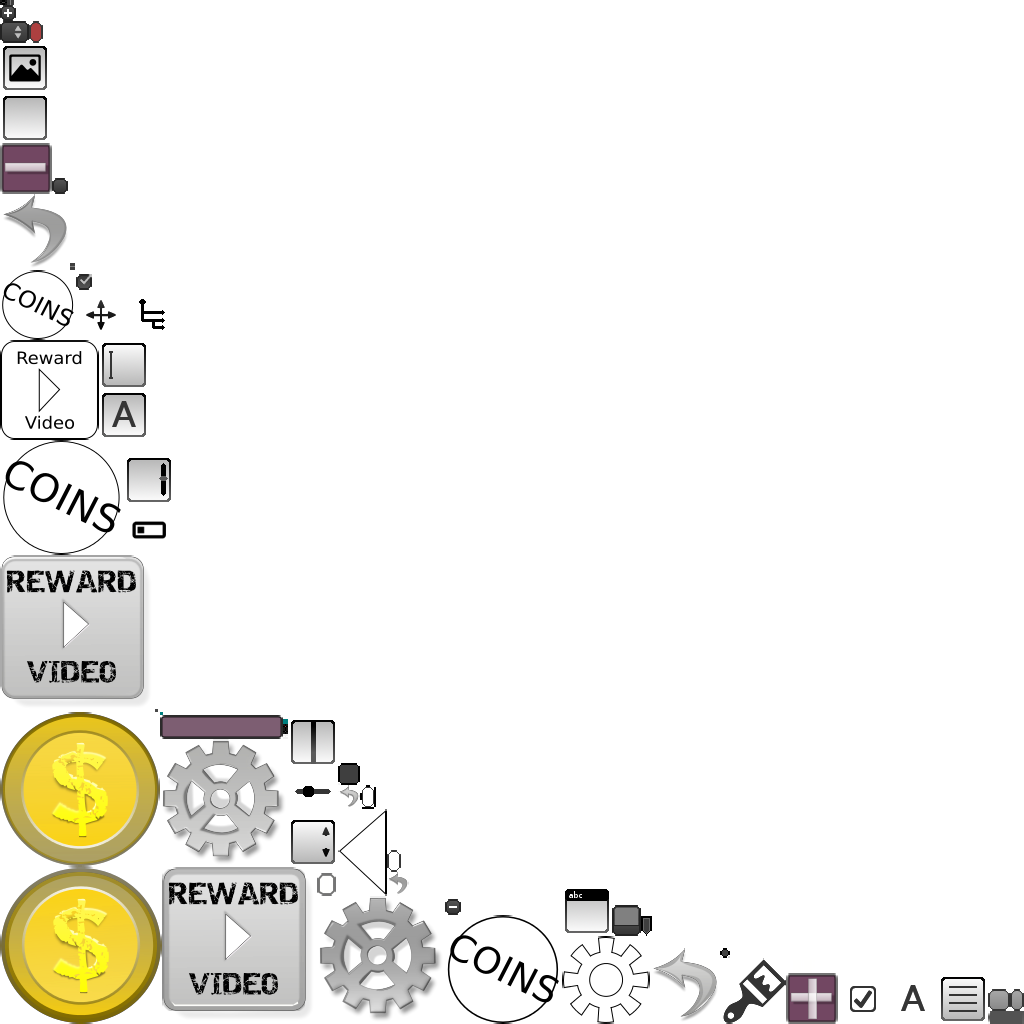
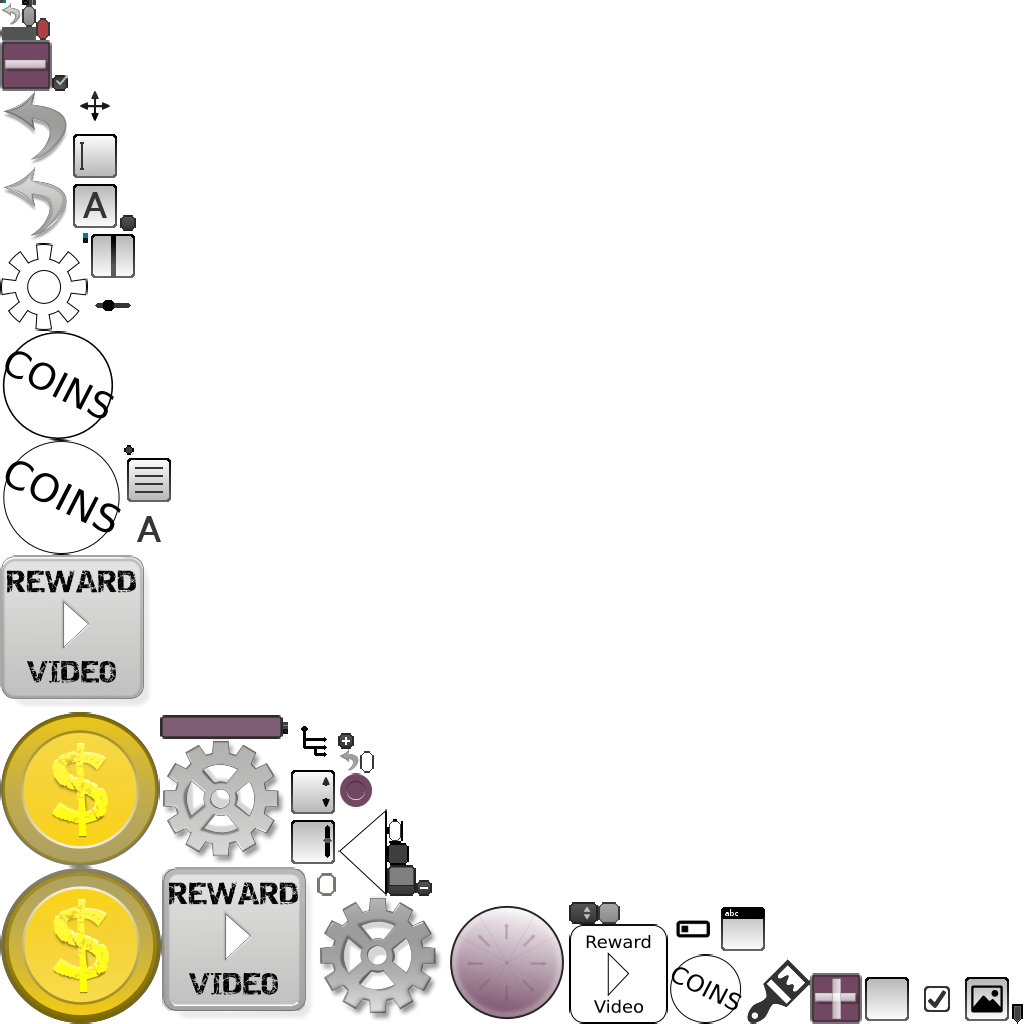
added joystick and wired it up

diff --git a/core/src/com/araceinspace/InputSubSystem/InputManager.java b/core/src/com/araceinspace/InputSubSystem/InputManager.java
@@ -11,6 +11,11 @@ import com.badlogic.gdx.InputMultiplexer;
 import com.badlogic.gdx.InputProcessor;
 import com.badlogic.gdx.input.GestureDetector;
 import com.badlogic.gdx.math.Vector2;
+import com.badlogic.gdx.scenes.scene2d.Actor;
+import com.badlogic.gdx.scenes.scene2d.ui.Touchpad;
+import com.badlogic.gdx.scenes.scene2d.utils.ChangeListener;
+
+import static com.araceinspace.InputSubSystem.InputManager.Sectors.RIGHT;
 
 /**
  * Created by Isaac Assegai on 7/10/17.
@@ -22,12 +27,15 @@ import com.badlogic.gdx.math.Vector2;
  * INPUT from the EventDispatcher. It adds the created GameInput to the event then asks the
  * EventDispatcher to dispatch it. A GameObjects InputComponent receives this and consumes it.
  */
-public class InputManager implements EventSender, InputProcessor, GestureDetector.GestureListener {
+public class InputManager extends ChangeListener implements EventSender, InputProcessor, GestureDetector.GestureListener {
     /* Static Variables */
+    enum Sectors {RIGHT, UP_RIGHT, UP, UP_LEFT, LEFT, DOWN_LEFT, DOWN, DOWN_RIGHT};
 
     /* Field Variables & Objects */
     GameWorld parent;
     InputMultiplexer multiplexer;
+    Sectors currentSectorPressed = null;
+
 
     /* Constructors */
 
@@ -208,5 +216,184 @@ public class InputManager implements EventSender, InputProcessor, GestureDetecto
         //parent.getRenderManager().viewport.getC
         parent.renderManager.setCameraZoom(zoom);
         return false;
+    }
+
+    /**
+     * Called from joystick input
+     * @param event
+     * @param actor
+     */
+    @Override
+    public void changed(ChangeEvent event, Actor actor) {
+        if(actor instanceof Touchpad){
+            Touchpad pad = ((Touchpad) actor);
+            float x = pad.getKnobPercentX();
+            float y = pad.getKnobPercentY();
+
+            double angle = Math.atan2(y, x);
+            if(angle < 0)angle += 2*Math.PI;
+
+
+
+            if(angle >= -Math.PI/6 && angle < Math.PI/6){//right pressed
+                currentSectorPressed = Sectors.RIGHT;
+            }else if(angle >= Math.PI/6 && angle < Math.PI/3){//upright pressed
+                currentSectorPressed = Sectors.UP_RIGHT;
+            }else if(angle >= Math.PI/3 && angle < 2*Math.PI/3){//up pressed
+                currentSectorPressed = Sectors.UP;
+            }else if(angle >= 2*Math.PI/3 && angle < 5*Math.PI/6){//upleft pressed
+                currentSectorPressed = Sectors.UP_LEFT;
+            }else if(angle >= 5*Math.PI/6 && angle < 7*Math.PI/6) {//left pressed
+                currentSectorPressed = Sectors.LEFT;
+            }else if(angle >= 7*Math.PI/6 && angle < 4*Math.PI/3) {//down left pressed
+                currentSectorPressed = Sectors.DOWN_LEFT;
+            }else if(angle >= 4*Math.PI/3 && angle < 5*Math.PI/3){//down pressed
+                currentSectorPressed = Sectors.DOWN;
+            }else if(angle >= 5*Math.PI/3 && angle < 11*Math.PI/6){//downRight pressed
+                currentSectorPressed = Sectors.DOWN_RIGHT;
+            }
+
+
+
+            switch(currentSectorPressed){
+                case RIGHT:
+                    sendEvent(new Event(Event.TYPE.INPUT, "PlayerInput", GameInput.UP_RELEASED));
+                    sendEvent(new Event(Event.TYPE.INPUT, "PlayerInput", GameInput.JUMP_RELEASED));
+                    sendEvent(new Event(Event.TYPE.INPUT, "PlayerInput", GameInput.LEFT_RELEASED));
+                    sendEvent(new Event(Event.TYPE.INPUT, "PlayerInput", GameInput.DOWN_RELEASED));
+                    sendEvent(new Event(Event.TYPE.INPUT, "PlayerInput", GameInput.RIGHT_PRESSED));
+                    break;
+                case UP_RIGHT:
+                    if(parent.levelManager.getPlayer().getPhysics().onPlanet()){//if player is on planet we jump and don't press right at all
+                        sendEvent(new Event(Event.TYPE.INPUT, "PlayerInput", GameInput.UP_RELEASED));
+                        sendEvent(new Event(Event.TYPE.INPUT, "PlayerInput", GameInput.RIGHT_RELEASED));
+                        sendEvent(new Event(Event.TYPE.INPUT, "PlayerInput", GameInput.JUMP_PRESSED));
+                    }else{
+                        sendEvent(new Event(Event.TYPE.INPUT, "PlayerInput", GameInput.JUMP_RELEASED));
+                        sendEvent(new Event(Event.TYPE.INPUT, "PlayerInput", GameInput.UP_PRESSED));
+                        sendEvent(new Event(Event.TYPE.INPUT, "PlayerInput", GameInput.RIGHT_PRESSED));
+                    }
+
+                    sendEvent(new Event(Event.TYPE.INPUT, "PlayerInput", GameInput.LEFT_RELEASED));
+                    sendEvent(new Event(Event.TYPE.INPUT, "PlayerInput", GameInput.DOWN_RELEASED));
+                    break;
+                case UP:
+                    if(parent.levelManager.getPlayer().getPhysics().onPlanet()) {//if on planet we jump, instead of press up
+                        sendEvent(new Event(Event.TYPE.INPUT, "PlayerInput", GameInput.UP_RELEASED));
+                        sendEvent(new Event(Event.TYPE.INPUT, "PlayerInput", GameInput.JUMP_PRESSED));
+                    }else{
+                        sendEvent(new Event(Event.TYPE.INPUT, "PlayerInput", GameInput.JUMP_RELEASED));
+                        sendEvent(new Event(Event.TYPE.INPUT, "PlayerInput", GameInput.UP_PRESSED));
+                    }
+
+                    sendEvent(new Event(Event.TYPE.INPUT, "PlayerInput", GameInput.LEFT_RELEASED));
+                    sendEvent(new Event(Event.TYPE.INPUT, "PlayerInput", GameInput.DOWN_RELEASED));
+                    sendEvent(new Event(Event.TYPE.INPUT, "PlayerInput", GameInput.RIGHT_RELEASED));
+                    break;
+                case UP_LEFT:
+                    if(parent.levelManager.getPlayer().getPhysics().onPlanet()){//if player is on planet we jump and don't press left at all
+                        sendEvent(new Event(Event.TYPE.INPUT, "PlayerInput", GameInput.UP_RELEASED));
+                        sendEvent(new Event(Event.TYPE.INPUT, "PlayerInput", GameInput.LEFT_RELEASED));
+                        sendEvent(new Event(Event.TYPE.INPUT, "PlayerInput", GameInput.JUMP_PRESSED));
+                    }else{
+                        sendEvent(new Event(Event.TYPE.INPUT, "PlayerInput", GameInput.JUMP_RELEASED));
+                        sendEvent(new Event(Event.TYPE.INPUT, "PlayerInput", GameInput.UP_PRESSED));
+                        sendEvent(new Event(Event.TYPE.INPUT, "PlayerInput", GameInput.LEFT_PRESSED));
+                    }
+
+                    sendEvent(new Event(Event.TYPE.INPUT, "PlayerInput", GameInput.RIGHT_RELEASED));
+                    sendEvent(new Event(Event.TYPE.INPUT, "PlayerInput", GameInput.DOWN_RELEASED));
+                    break;
+                case LEFT:
+                    sendEvent(new Event(Event.TYPE.INPUT, "PlayerInput", GameInput.UP_RELEASED));
+                    sendEvent(new Event(Event.TYPE.INPUT, "PlayerInput", GameInput.JUMP_RELEASED));
+                    sendEvent(new Event(Event.TYPE.INPUT, "PlayerInput", GameInput.RIGHT_RELEASED));
+                    sendEvent(new Event(Event.TYPE.INPUT, "PlayerInput", GameInput.DOWN_RELEASED));
+                    sendEvent(new Event(Event.TYPE.INPUT, "PlayerInput", GameInput.LEFT_PRESSED));
+                    break;
+                case DOWN_LEFT:
+                    if(parent.levelManager.getPlayer().getPhysics().onPlanet()){//if player is on planet don't press down, but only left
+                        sendEvent(new Event(Event.TYPE.INPUT, "PlayerInput", GameInput.DOWN_RELEASED));
+                        sendEvent(new Event(Event.TYPE.INPUT, "PlayerInput", GameInput.LEFT_PRESSED));
+                    }else{
+                        sendEvent(new Event(Event.TYPE.INPUT, "PlayerInput", GameInput.DOWN_PRESSED));
+                        sendEvent(new Event(Event.TYPE.INPUT, "PlayerInput", GameInput.LEFT_PRESSED));
+                    }
+
+                    sendEvent(new Event(Event.TYPE.INPUT, "PlayerInput", GameInput.RIGHT_RELEASED));
+                    sendEvent(new Event(Event.TYPE.INPUT, "PlayerInput", GameInput.JUMP_RELEASED));
+                    sendEvent(new Event(Event.TYPE.INPUT, "PlayerInput", GameInput.UP_RELEASED));
+                    break;
+                case DOWN:
+                    if(parent.levelManager.getPlayer().getPhysics().onPlanet()) {//if on planet we do nothing
+                        sendEvent(new Event(Event.TYPE.INPUT, "PlayerInput", GameInput.DOWN_RELEASED));
+
+                    }else{
+                        sendEvent(new Event(Event.TYPE.INPUT, "PlayerInput", GameInput.DOWN_PRESSED));
+                    }
+
+                    sendEvent(new Event(Event.TYPE.INPUT, "PlayerInput", GameInput.LEFT_RELEASED));
+                    sendEvent(new Event(Event.TYPE.INPUT, "PlayerInput", GameInput.RIGHT_RELEASED));
+                    sendEvent(new Event(Event.TYPE.INPUT, "PlayerInput", GameInput.UP_RELEASED));
+                    sendEvent(new Event(Event.TYPE.INPUT, "PlayerInput", GameInput.JUMP_RELEASED));
+                    break;
+                case DOWN_RIGHT:
+                    if(parent.levelManager.getPlayer().getPhysics().onPlanet()){//if player is on planet don't press down, but only right
+                        sendEvent(new Event(Event.TYPE.INPUT, "PlayerInput", GameInput.DOWN_RELEASED));
+                        sendEvent(new Event(Event.TYPE.INPUT, "PlayerInput", GameInput.RIGHT_PRESSED));
+                    }else{
+                        sendEvent(new Event(Event.TYPE.INPUT, "PlayerInput", GameInput.DOWN_PRESSED));
+                        sendEvent(new Event(Event.TYPE.INPUT, "PlayerInput", GameInput.RIGHT_PRESSED));
+                    }
+
+                    sendEvent(new Event(Event.TYPE.INPUT, "PlayerInput", GameInput.LEFT_RELEASED));
+                    sendEvent(new Event(Event.TYPE.INPUT, "PlayerInput", GameInput.JUMP_RELEASED));
+                    sendEvent(new Event(Event.TYPE.INPUT, "PlayerInput", GameInput.UP_RELEASED));
+
+                    break;
+                default:
+                    
+                    break;
+            }
+
+
+
+            /*
+            //upsection
+            if( (x < .5f && x > -.5f) && (y < 1 && y > .25f)){
+                sendEvent(new Event(Event.TYPE.INPUT, "PlayerInput", GameInput.LEFT_RELEASED));
+                sendEvent(new Event(Event.TYPE.INPUT, "PlayerInput", GameInput.RIGHT_RELEASED));
+                sendEvent(new Event(Event.TYPE.INPUT, "PlayerInput", GameInput.DOWN_RELEASED));
+                if(parent.levelManager.getPlayer().getPhysics().onPlanet()){
+                    sendEvent(new Event(Event.TYPE.INPUT, "PlayerInput", GameInput.JUMP_PRESSED));
+                }else{
+                    sendEvent(new Event(Event.TYPE.INPUT, "PlayerInput", GameInput.UP_PRESSED));
+                }
+
+            //right section
+            }else if( (x >= .1)  ){
+                sendEvent(new Event(Event.TYPE.INPUT, "PlayerInput", GameInput.UP_RELEASED));
+                sendEvent(new Event(Event.TYPE.INPUT, "PlayerInput", GameInput.JUMP_RELEASED));
+                sendEvent(new Event(Event.TYPE.INPUT, "PlayerInput", GameInput.LEFT_RELEASED));
+                sendEvent(new Event(Event.TYPE.INPUT, "PlayerInput", GameInput.RIGHT_PRESSED));
+
+
+            //left section
+            }else if(x <= -.1){
+                sendEvent(new Event(Event.TYPE.INPUT, "PlayerInput", GameInput.UP_RELEASED));
+                sendEvent(new Event(Event.TYPE.INPUT, "PlayerInput", GameInput.JUMP_RELEASED));
+                sendEvent(new Event(Event.TYPE.INPUT, "PlayerInput", GameInput.RIGHT_RELEASED));
+                sendEvent(new Event(Event.TYPE.INPUT, "PlayerInput", GameInput.LEFT_PRESSED));
+            }else{
+                sendEvent(new Event(Event.TYPE.INPUT, "PlayerInput", GameInput.LEFT_RELEASED));
+                sendEvent(new Event(Event.TYPE.INPUT, "PlayerInput", GameInput.RIGHT_RELEASED));
+                sendEvent(new Event(Event.TYPE.INPUT, "PlayerInput", GameInput.DOWN_RELEASED));
+                sendEvent(new Event(Event.TYPE.INPUT, "PlayerInput", GameInput.UP_RELEASED));
+                sendEvent(new Event(Event.TYPE.INPUT, "PlayerInput", GameInput.JUMP_RELEASED));
+            }*/
+
+
+        }
+
     }
 }

diff --git a/core/src/com/araceinspace/Screens/INGAMEScreen.java b/core/src/com/araceinspace/Screens/INGAMEScreen.java
@@ -17,12 +17,16 @@ import com.badlogic.gdx.graphics.glutils.ShapeRenderer;
 import com.badlogic.gdx.math.Matrix4;
 import com.badlogic.gdx.math.Vector2;
 import com.badlogic.gdx.physics.box2d.Box2DDebugRenderer;
+import com.badlogic.gdx.scenes.scene2d.Actor;
 import com.badlogic.gdx.scenes.scene2d.InputEvent;
 import com.badlogic.gdx.scenes.scene2d.Stage;
 import com.badlogic.gdx.scenes.scene2d.ui.ImageButton;
 import com.badlogic.gdx.scenes.scene2d.ui.Skin;
 import com.badlogic.gdx.scenes.scene2d.ui.Table;
+import com.badlogic.gdx.scenes.scene2d.ui.Touchpad;
+import com.badlogic.gdx.scenes.scene2d.utils.ChangeListener;
 import com.badlogic.gdx.scenes.scene2d.utils.ClickListener;
+import com.badlogic.gdx.scenes.scene2d.utils.Drawable;
 import com.badlogic.gdx.utils.Align;
 import com.badlogic.gdx.utils.viewport.ScreenViewport;
 
@@ -49,11 +53,14 @@ public class INGAMEScreen extends Screen{
     private OrthCamera menuCamera;
     private OrthCamera shapeCamera; // need this because other cameras zoom
 
+    private Touchpad touchPad;
+
     /* Constructors */
 
     public INGAMEScreen(RenderManager p) {
         super(p);
        // parent.parent.elapsedTime = 0;//reset elapsed time
+        Touchpad t;
     }
 
     @Override
@@ -63,6 +70,8 @@ public class INGAMEScreen extends Screen{
         backgroundBatch.dispose();
         font.dispose();
         debugRenderer.dispose();
+        skin.dispose();
+
 
     }
 
@@ -90,8 +99,16 @@ public class INGAMEScreen extends Screen{
     private void setupStage(){
         viewport = new ScreenViewport(menuCamera);
         stage = new Stage(viewport, batch);
-        TextureAtlas atlas = new TextureAtlas(Gdx.files.internal("uiskin.atlas"));
-        skin = new Skin(Gdx.files.internal("uiskin.json"), atlas);
+        TextureAtlas atlas = new TextureAtlas(Gdx.files.internal("aris_uiskin.atlas"));
+        skin = new Skin(Gdx.files.internal("aris_uiskin.json"), atlas);
+
+        touchPad = new Touchpad(10, skin, "default");
+        touchPad.setBounds(15, 15, 200,200);
+        touchPad.addListener(parent.parent.inputManager);
+
+
+
+       // touchPad.addListener(touchpadListener);
 
         Table mainTable;
         Table headerTable;
@@ -139,6 +156,7 @@ public class INGAMEScreen extends Screen{
         headerTable.add(menuButton).padLeft(spacer).padTop(0).align(Align.left).size(viewport.getScreenWidth()/8, viewport.getScreenHeight()/10);
         mainTable.add(headerTable).fill().expandX();
         stage.addActor(mainTable);
+        stage.addActor(touchPad);
         parent.parent.inputManager.addInputProcessor(stage);
 
 
